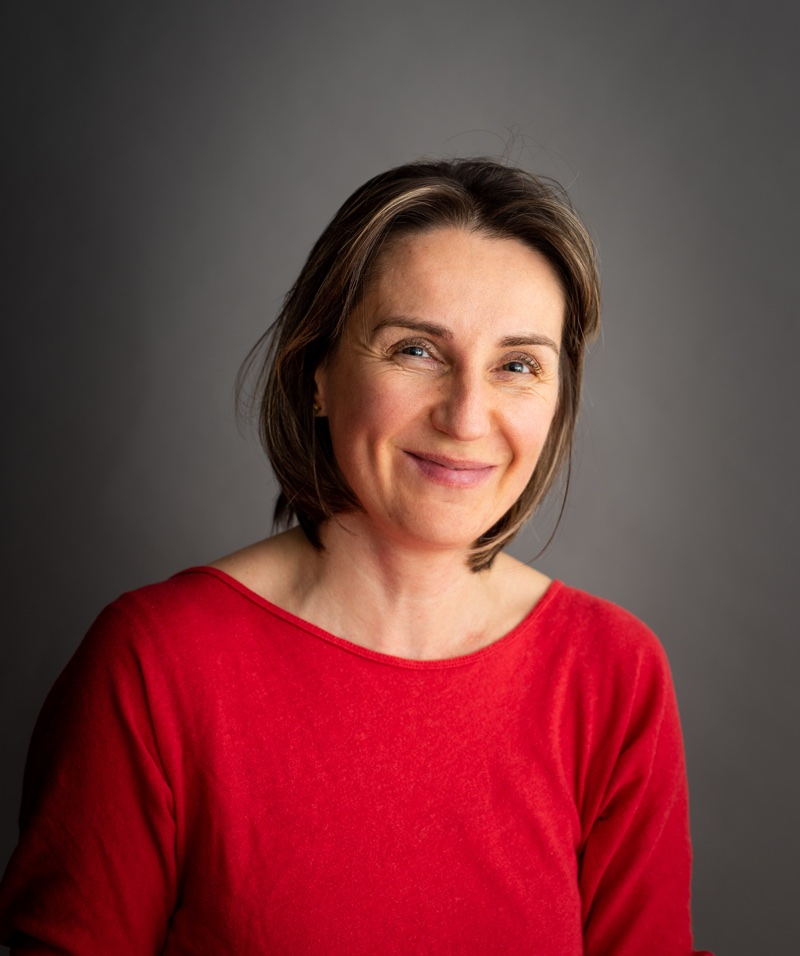
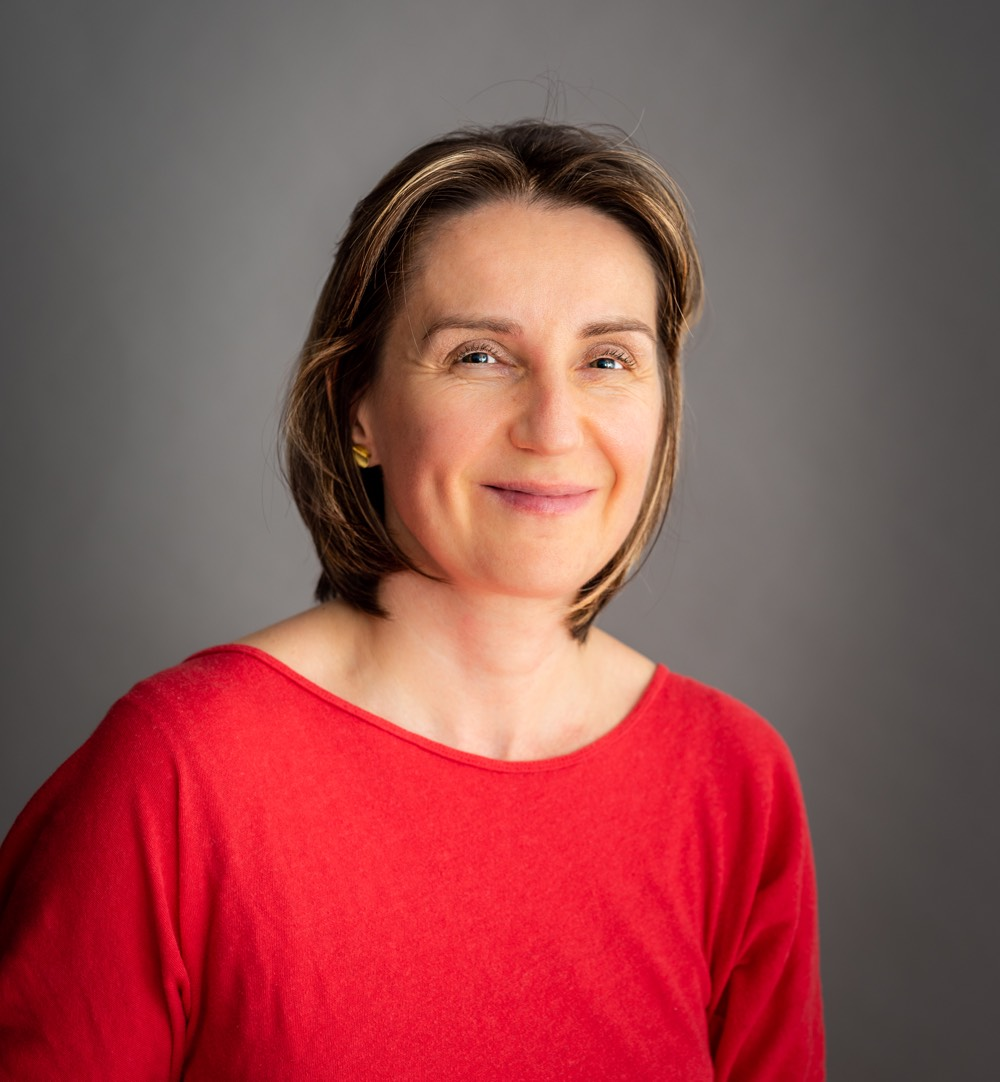
updates from 25.04.2021

diff --git a/themes/dt/layouts/prestations/single.html b/themes/dt/layouts/prestations/single.html
@@ -57,7 +57,7 @@
 		<div class="box-cta-content inverted">
 			<h5 data-aos="fade-up" data-aos-duration="100">Contact</h5>
 			<h2 data-aos="fade-up" data-aos-duration="300">Premier rendez-vous</h2>
-			<p data-aos="fade-up" data-aos-duration="500">Vous vous intéressez à ce soin ? Vous souhaitez savoir comment <strong>{{ .Title }}</strong> ? N’hésitez pas à me contacter, sans aucune obligation.</p>
+			<p data-aos="fade-up" data-aos-duration="500">Vous vous intéressez à ce soin? Vous souhaitez savoir comment <strong>{{ .Title }}</strong>? N’hésitez pas à me contacter, sans aucune obligation.</p>
 			<div class="box-cta-action" data-aos="fade-up" data-aos-duration="600">
 				<a href="/rendez-vous/" class="button">Prendre rendez-vous</a>
 			</div>

diff --git a/themes/dt/layouts/prestations/list.html b/themes/dt/layouts/prestations/list.html
@@ -32,7 +32,7 @@
 					  <dd>{{ .Params.effet_temps }}</dd>
 					{{ end }}
 					{{ if .Params.seances }}
-					  <dt class="icon icon-agenda h5 color-minuit">Nombre de séance</dt>
+					  <dt class="icon icon-agenda h5 color-minuit">Nombre de séances</dt>
 					  <dd>{{ .Params.seances }}</dd>
 					{{ end }}
 					{{ if .Params.couts }}

diff --git a/content/prestations/ralentir_le_vieillissement_avec_les_traitements_au_botox.md b/content/prestations/ralentir_le_vieillissement_avec_les_traitements_au_botox.md
@@ -2,7 +2,7 @@
 title: "Ralentir le vieillissement avec les traitements au Botox"
 date: 2021-03-21T12:26:30+01:00
 draft: false
-banner: /images/ralentir_le_vieillissement_avec_les_traitements_au_botox.jpg
+# banner: /images/ralentir_le_vieillissement_avec_les_traitements_au_botox.jpg
 effet: "La toxine botulique (Botox) **agit sur la musculature**. Le Botox relaxe ou stoppe la contraction de certains muscles. Ainsi, il prévient la formation de rides et ralentit le vieillissement de la peau."
 objectifs: 
 - Prévenir le vieillissement
@@ -33,7 +33,7 @@ L'effet du Botox n'est pas permanent, il faudra donc **renouveler les injections
 
 ## Précautions
 
-La toxine botulique est un médicament qui peut comporter des potentiels indésirables dans certains cas. C'est pourquoi Swissmedic **réserve son utilisation à des médecins spécialistes** possédant l’expérience requise et maîtrisant la technique d'injection.
+La toxine botulique est un médicament qui peut comporter des effets indésirables dans certains cas. C'est pourquoi Swissmedic **réserve son utilisation à des médecins spécialistes** possédant l’expérience requise et maîtrisant la technique d'injection.
 
 ## Exemples de tarifs  
 
@@ -42,5 +42,5 @@ La toxine botulique est un médicament qui peut comporter des potentiels indési
 * Pattes d’oie  — Dès CHF 200.-
 * Haut du visage  — Dès CHF 500.-
 * Bas du visage  — Dès CHF 200.-
-* Coup  — Dès CHF 200.-
+* Cou  — Dès CHF 200.-
 * Hyperhidrose (aisselles)  — Dès CHF 600.

diff --git a/content/_index.md b/content/_index.md
@@ -43,10 +43,10 @@ surtitle="Contact"
 title="Premier rendez-vous"
 link="/rendez-vous/"
 link_label="Prendre rendez-vous"
->}} Vous vous intéressez à un soin ? Vous souhaitez en savoir plus sur une prestation? N’hésitez pas à me contacter, sans aucune obligation. {{< /box-cta >}}
+>}} Vous vous intéressez à un soin? Vous souhaitez en savoir plus sur une prestation? N’hésitez pas à me contacter, sans aucune obligation. {{< /box-cta >}}
 
 {{< lightbox-cta
-img="/images/dorota_teterycz_profile.jpg"
+img="/images/face_3.jpg"
 surtitle="Dre Dorota Teterycz"
 title="Ma promesse"
 link="dre-dorota-teterycz"
@@ -60,7 +60,7 @@ Je pratique la médecine esthétique pour vous offrir des <strong>résultats vis
 
 ### Technologie et savoir-faire
 
-Mon expertise me permet de proposer une gamme étendue de techniques, de méthodes et de traitements. Quels que soient vos objectifs, je pourrai vous recommander **l'approche la mieux adaptée** aux résultats désirés et à votre situations personnelle.
+Mon expertise me permet de proposer une gamme étendue de techniques, de méthodes et de traitements. Quels que soient vos objectifs, je pourrai vous recommander **l'approche la mieux adaptée** aux résultats désirés et à votre situation personnelle.
 
 
 {{<button href="prestations" name="Découvrir mes prestations" >}}

diff --git a/content/prestations/traiter_les_varices_avec_le_laser_combine_a_la_sclerotherapie.md b/content/prestations/traiter_les_varices_avec_le_laser_combine_a_la_sclerotherapie.md
@@ -1,7 +1,7 @@
 ---
 title: Traiter les varices avec le laser combiné à la sclérothérapie
 date: 2021-03-21T14:47:46.000+01:00
-banner: "/images/traiter_les_varices_avec_le_laser_combine_a_la_sclerotherapie.jpg"
+# banner: "/images/traiter_les_varices_avec_le_laser_combine_a_la_sclerotherapie.jpg"
 effet: Les lasers Nd:YAG à impulsions longues pénètrent dans la peau à une profondeur
   de 5-6 mm. L’impulsion lumineuse coagule le sang dans la veine et **détruit la varicosité
   ou la varice** sans lésion cutanée ni complication. La sclérothérapie consiste à
@@ -19,12 +19,6 @@ cta: Prendre rendez-vous
 ## Conseil
 
 * Éviter de pratiquer le sport pendant 24 heures et l’exposition au soleil pendant 2 semaines. Le travail peut être repris le lendemain de l’intervention.
-
-## Effets
-
-Les lasers Nd:YAG à impulsions longues pénètrent dans la peau à une profondeur de 5-6 mm. L’impulsion lumineuse coagule le sang dans la veine et **détruit la varicosité ou la varice** sans lésion cutanée ni complication.
-
-La sclérothérapie consiste à injecter un produit qui va **boucher les vaisseaux** à traiter. Devenus inutiles, ils seront progressivement éliminés par l'organisme. Et les zones concernées retrouveront un aspect esthétique plus harmonieux.
 
 ## Utilisation
 

diff --git a/content/prestations/combler_vos_rides_avec_l_acide_hyaluronique.md b/content/prestations/combler_vos_rides_avec_l_acide_hyaluronique.md
@@ -2,12 +2,11 @@
 title: "Combler vos rides avec l’acide hyaluronique"
 date: 2021-03-21T12:13:10+01:00
 draft: false
-banner: /images/combler_vos_rides_avec_l_acide_hyaluronique.jpg
+# banner: /images/combler_vos_rides_avec_l_acide_hyaluronique.jpg
 effet: "L'acide hyaluronique **comble véritablement vos rides**. Il remplace la masse graisseuse sous-cutanée, qui a tendance à disparaître avec l'âge. Ainsi, l'eau est retenue sous votre peau comme dans une éponge. Et les traits creusés retrouvent du volume."
 objectifs: 
 - "Combler des rides"
 - "Redéfinir les contours du visage"
-- "Rajeunir le décolleté et les mains"
 - "Rajeunir le décolleté et les mains"
 effet_temps: "Entre 6 et 12 mois"
 seances: "Entre 1 et 4 séances de 20 à 45 minutes"
@@ -15,13 +14,9 @@ couts: "Dès CHF 300.- la séance"
 cta: "Prendre rendez-vous"
 ---
 
-### Conseils
+### Conseil
 
 * Eviter de mettre du maquillage et de pratiquer le sport pendant 24 heures
-
-## Effets
-
-L'acide hyaluronique **comble véritablement vos rides**. Il remplace la masse graisseuse sous-cutanée, qui a tendance à disparaître avec l'âge. Ainsi, l'eau est retenue sous votre peau comme dans une éponge. Et les traits creusés retrouvent du volume.
 
 ## Utilisation
 

diff --git a/content/prestations/lisser_votre_peau_avec_le_laser.md b/content/prestations/lisser_votre_peau_avec_le_laser.md
@@ -2,7 +2,7 @@
 title: "Lisser votre peau avec le laser"
 date: 2021-03-21T15:02:05+01:00
 draft: false
-banner: /images/lisser_votre_peau_avec_le_laser.jpg
+# banner: /images/lisser_votre_peau_avec_le_laser.jpg
 effet: "Contrairement aux traitements traditionnels comme la dermabrasion et les peelings chimiques, le laser permet **un contrôle incroyablement précis** du processus de traitement."
 objectifs:
 - Lissage cutané
@@ -18,7 +18,7 @@ cta: "Prendre rendez-vous"
 
 ## Utilisation
 
-**Avec le traitement SmoothEye,** je vise le rafraichissement et le raffermissement instantanés du contour des yeux. Il s'agit d'une intervention douce, rapide et non invasive. Le délai de récupération après l'intervention est très court.
+**Avec le traitement SmoothEye,** je vise le rafraîchissement et le raffermissement instantanés du contour des yeux. Il s'agit d'une intervention douce, rapide et non invasive. Le délai de récupération après l'intervention est très court.
 
 J'utilise **la technique Liplase** pour repulper les lèvres sans injection. Vous obtenez des lèvres plus pleines et plus lisses sans aiguilles ni délai de récupération.
 

diff --git a/content/rendez-vous.md b/content/rendez-vous.md
@@ -8,7 +8,7 @@ date: 2020-11-22T12:34:44.000+01:00
 img="/images/dorota_teterycz_mask.jpg"
 title="Prenons rendez-vous"
 >}}
-Plus efficace que les soins esthétiques, moins invasif que la chirurgie plastique. Même si les traitements que je propose sont légers et rapides, ils demeurent des interventions médicales. Avant toute décision, il est important de **nous rencontrer pour évaluer la situation** et définir le traitement adapté.
+Plus efficaces que les soins esthétiques, moins invasifs que la chirurgie plastique. Même si les traitements que je propose sont légers et rapides, ils demeurent des interventions médicales. Avant toute décision, il est important de **nous rencontrer pour évaluer la situation** et définir le traitement adapté.
 {{< /box-intro >}}
 
 Notre premier rendez-vous durera **environ 30 minutes et sera facturé CHF 100**. Il est confidentiel, comme la totalité de nos échanges. Il s'agit uniquement d'un temps d'écoute et de dialogue: aucune intervention ne sera pratiquée durant cette première rencontre.

diff --git a/content/prestations/obtenir_une_epilation_definitive_au_laser.md b/content/prestations/obtenir_une_epilation_definitive_au_laser.md
@@ -2,7 +2,7 @@
 title: "Obtenir une épilation définitive au laser"
 date: 2021-03-21T14:55:00+01:00
 draft: false
-banner: /images/obtenir_une_epilation_definitive_au_laser.jpg
+# banner: /images/obtenir_une_epilation_definitive_au_laser.jpg
 effet: "Avec l'épilation au laser, chaque poil est **détruit à la racine**. Le rayon lumineux du laser chauffe le pigment responsable de la coloration des poils. Cela endommage le follicule pileux, qui ne peut plus produire de poils."
 objectifs:
 - Épilation définitive
@@ -29,7 +29,7 @@ Les poils ne poussent pas tous en même temps, mais par générations successive
 Le succès du traitement de réduction des poils dépend beaucoup des compétences et de la maîtrise du traitement du praticien. Bien dosées, mes séances ne laissent que de **discrètes rougeurs pendant 2h**, comme après une épilation à la cire.
 
 
-## Exemples de tarifs (pas séance)  
+## Exemples de tarifs (par séance)  
 
 * *Entre-sourcils  — CHF 50.-
 * *Lèvre supérieure  — CHF 70.-

diff --git a/content/objectifs.md b/content/objectifs.md
@@ -44,7 +44,7 @@ Si c'est votre cas, mon expertise de la médecine esthétique peut vous aider. L
 
 ## Prévenir
 
-«Mieux vaut prévenir que guérir», dit l'adage. Et c'est particulièrement vrai en médecine esthétique. **Pas besoin d'attendre** que les problèmes soient là pour s'en occuper ! Il existe aujourd'hui énormément de précautions et de mesures de prévention.
+«Mieux vaut prévenir que guérir», dit l'adage. Et c'est particulièrement vrai en médecine esthétique. **Pas besoin d'attendre** que les problèmes soient là pour s'en occuper! Il existe aujourd'hui énormément de précautions et de mesures de prévention.
 
 Je peux **agir à l'avance**. Préparer votre corps et votre visage. Prendre des mesures pour favoriser un vieillissement harmonieux. Lutter dès aujourd'hui contre les facteurs qui agissent de manière invisible et qui accéléreront ou aggraveront les signes de l'âge dans 10 ou 20 ans.
 

diff --git a/content/dre-dorota-teterycz.md b/content/dre-dorota-teterycz.md
@@ -12,7 +12,7 @@ Je m'appelle Dorota Teterycz. J'ai fondé ce cabinet de médecine esthétique po
 {{< /dorota-quote >}}
 
 
-J'exerce comme chirurgienne depuis une dizaine d'années. Et mon expérience m'a naturellement menée à **m'intéresser à la peau**. Est-ce que c'est pour contrebalancer le travail que j'effectue quotidiennement en profondeur dans le coprs humain?
+J'exerce comme chirurgienne depuis une dizaine d'années. Et mon expérience m'a naturellement menée à **m'intéresser à la peau**. Est-ce que c'est pour contrebalancer le travail que j'effectue quotidiennement en profondeur dans le corps humain?
 
 Toujours est-il que j'ai développé une passion pour les interventions médicales à vocation esthétique. Habituée à manier les instruments médicaux, je maîtrise le laser et les injections. Je m'en sers désormais pour **aider mes patients à embellir, rajeunir ou prévenir** les problèmes de peau.
 

diff --git a/content/prestations/prevenir_le_vieillissement_avec_le_microneedeling.md b/content/prestations/prevenir_le_vieillissement_avec_le_microneedeling.md
@@ -2,8 +2,8 @@
 title: "Prévenir le vieillissement avec le MicroNeedeling"
 date: 2021-03-21T14:23:11+01:00
 draft: false
-banner: /images/prevenir_le_vieillissement_avec_le_microneedeling.jpg
-effet: "Le MicroNeedling consiste à pratiquer des microperforations invisibles dans l'épiderme. La peau va réagir en boostant sa régénération: elle va produire de l'élastine et du collagène, qui vont résonner de l'éclat et du volume."
+# banner: /images/prevenir_le_vieillissement_avec_le_microneedeling.jpg
+effet: "Le MicroNeedling consiste à pratiquer des microperforations invisibles dans l'épiderme. La peau va réagir en boostant sa régénération: elle va produire de l'élastine et du collagène, qui vont restituer de l'éclat et du volume."
 objectifs:
 - Améliorer l’aspect et la texture de la peau
 - Procurer un teint plus éclatant et uniforme
